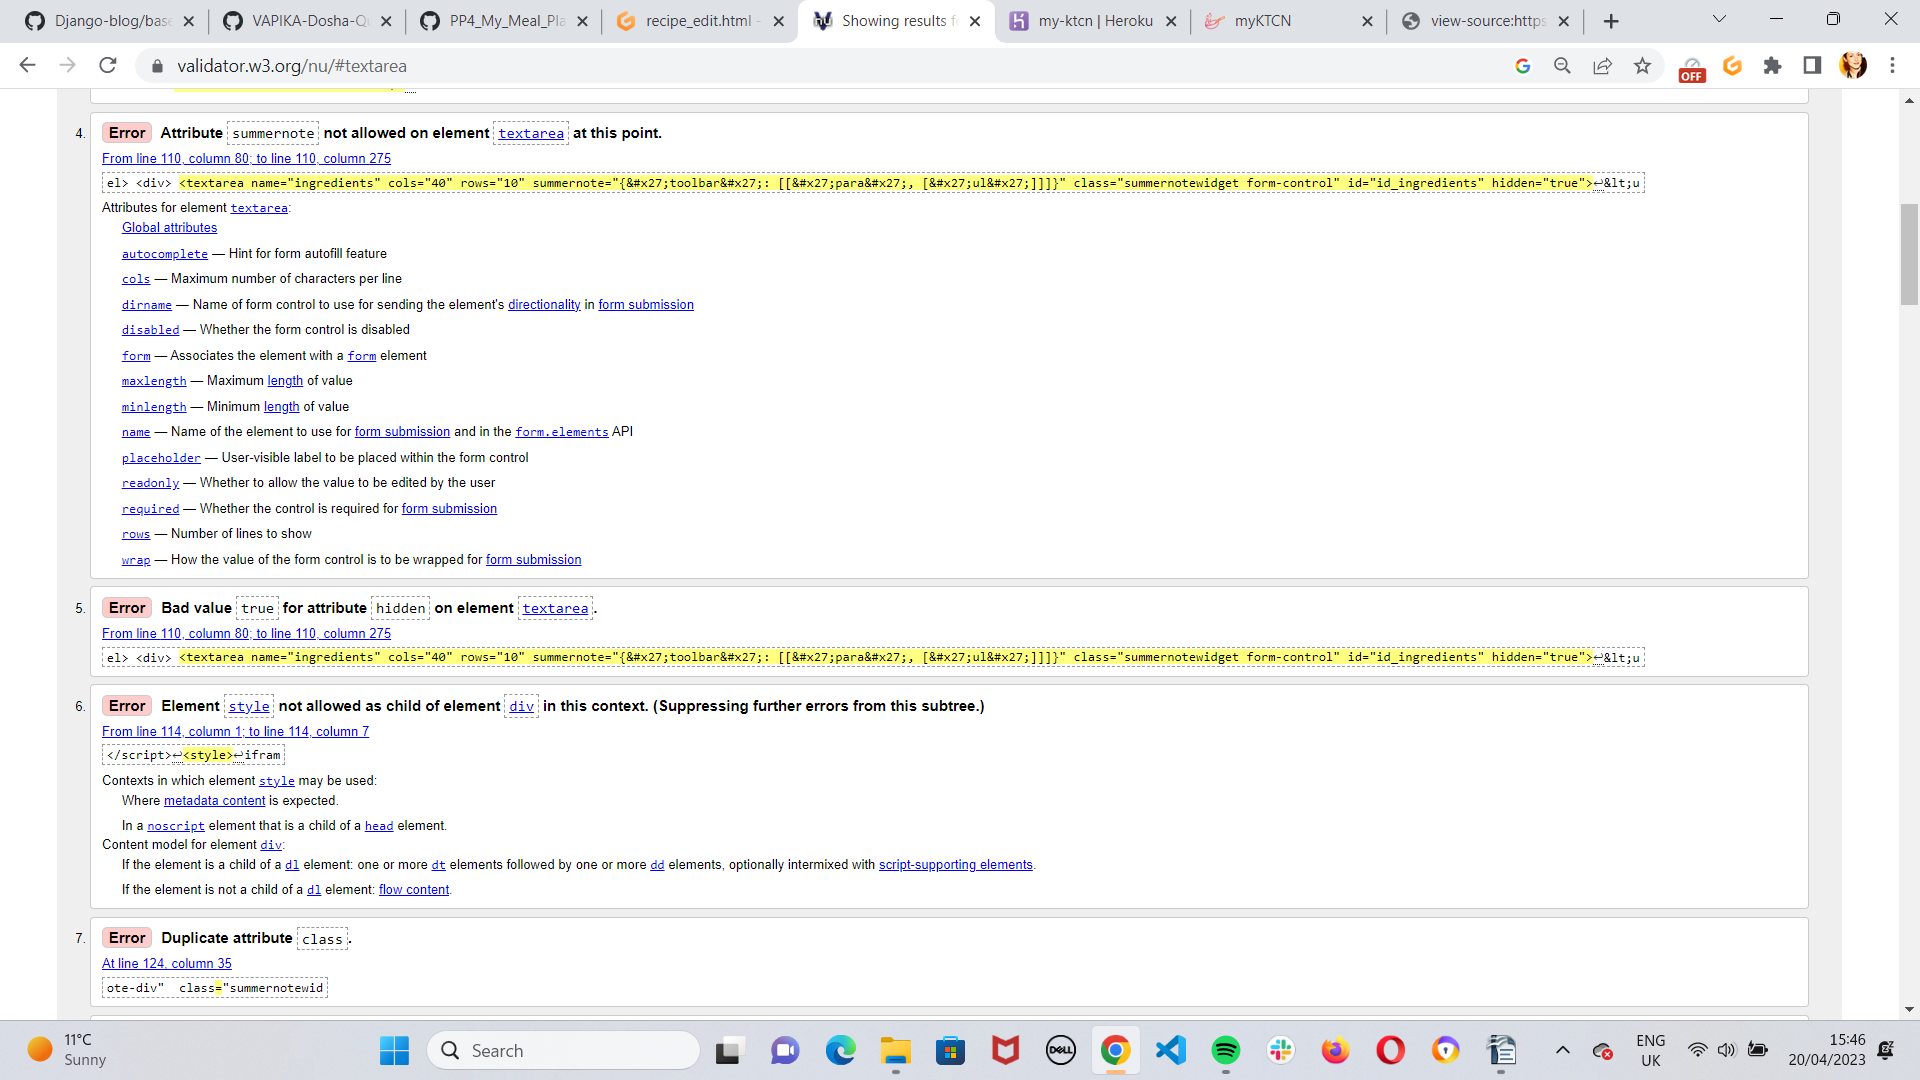
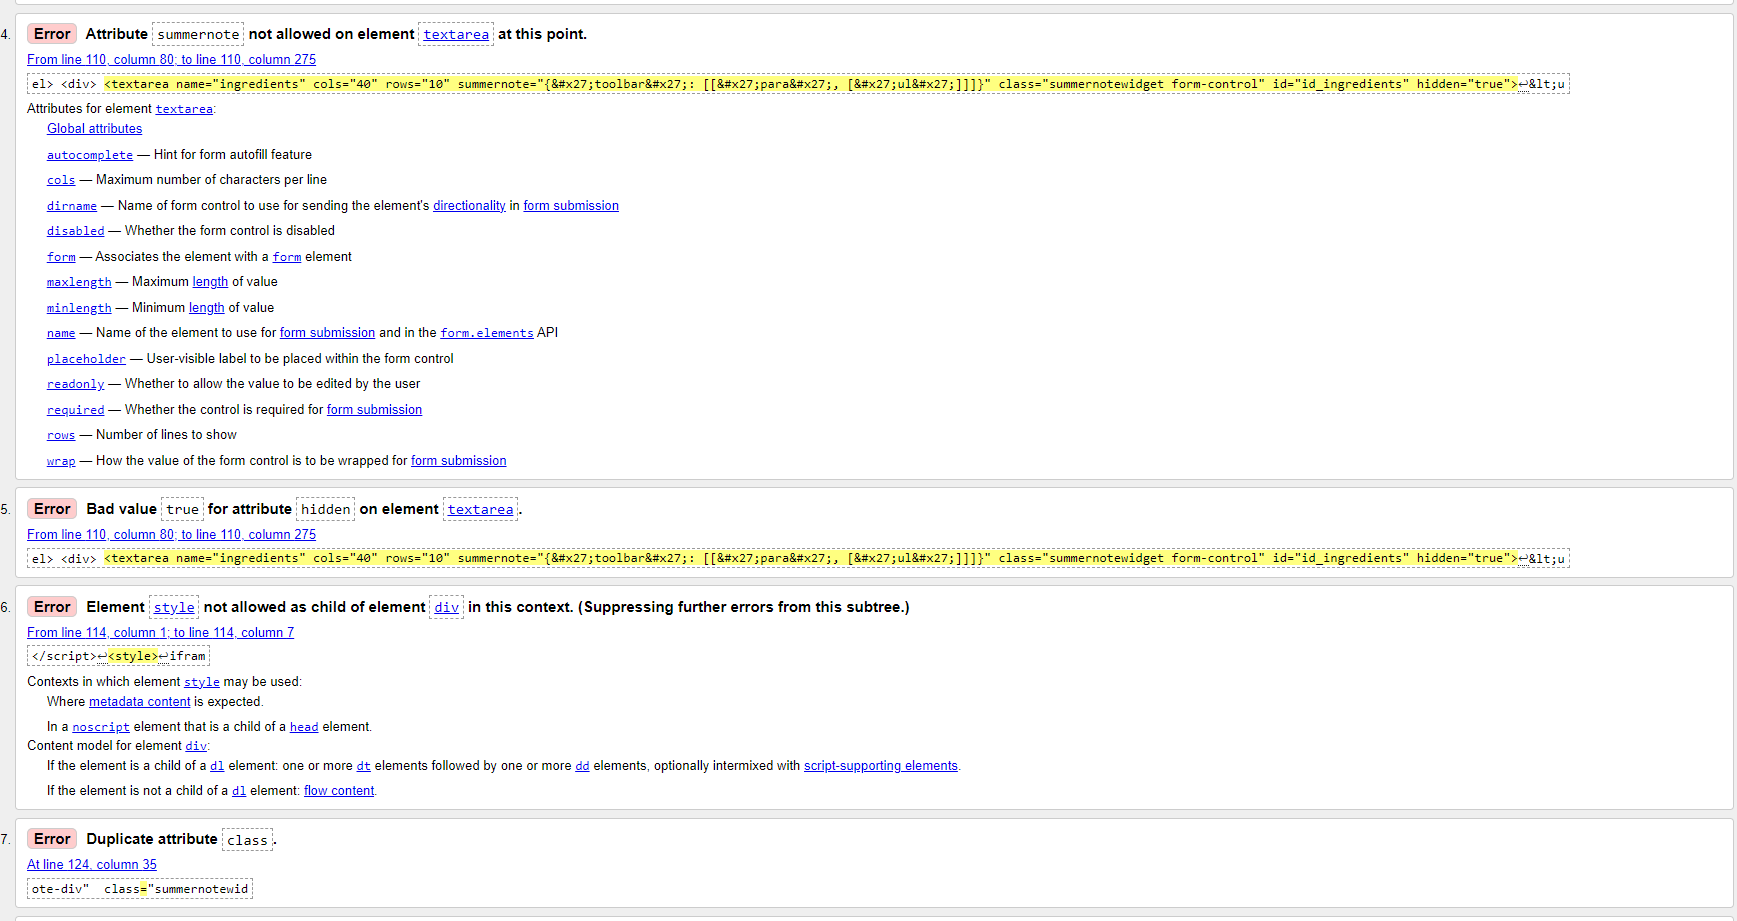
Add html code validation to TESTING file

Changed region(s): [[0.0, 0.0, 1.0, 1.0], [0.2798, 0.3344, 0.3109, 0.3648]]

diff --git a/TESTING.md b/TESTING.md
@@ -29,3 +29,30 @@
 [⬅ Back to the README.md file](README.md)
 
 - - -
+## 1) MANUAL TESTING
+
+- - -
+
+## 2) CODE VALIDATION
+### W3C HTML VALIDATION
+
+All html pages have been run through the [W3C HTML Validator](https://validator.w3.org/) and the below results were returned.
+
+| HTML page     | Errors        | Warnings      | See results  |
+| ------------- | ------------- |---------------|--------------|
+| base.html     | None          | None          | <details><summary>base results</summary> ![base.html results](docs/TESTING-images/html-validation/base.html-validated.png) </details>|
+| index.html    | None          | None          |<details><summary>index results</summary> ![index.html results](docs/TESTING-images/html-validation/index.html-validated.png) </details>|
+| browse_recipes.html    | None          | None          |<details><summary>browse recipes results</summary> ![browse_recipes.html results](docs/TESTING-images/html-validation/browse-recipes.html-validated.png) </details>|
+| cookbook.html    | None          | None          |<details><summary>cookbook results</summary> ![cookbook.html results](docs/TESTING-images/html-validation/cookbook.html-validated.png) </details>|
+| recipe_create.html    | **Yes**         | None          |<details><summary>Add recipe results</summary> ![recipe_create.html results](docs/TESTING-images/html-validation/recipe_create.html-summernoteerrors.png) </details>|
+| recipe_edit.html    | **Yes**         | None          |<details><summary>Edit recipe results</summary> ![recipe_edit.html results](docs/TESTING-images/html-validation/recipe-edit.html-summernoteerrors.png) </details>|
+| recipe_confirm_delete.html    | None          | None          |<details><summary>Delete recipe results</summary> ![recipe_confirm_delete.html results](docs/TESTING-images/html-validation/recipe-confirm-delete.html-vaidated.png) </details>|
+| recipe_details.html    | None          | None          |<details><summary>recipe details results</summary> ![recipe_details.html results](docs/TESTING-images/html-validation/recipe_details.html-validated.png) </details>|
+| drafts.html    | None          | None          |<details><summary>drafts results</summary> ![drafts.html results](docs/TESTING-images/html-validation/drafts.html-validated.png) </details>|
+| 404.html    | None          | None          |<details><summary>404 page results</summary> ![404.html results](docs/TESTING-images/html-validation/404.html-validated.png) </details>|
+| login.html    | None          | None          |<details><summary>login results</summary> ![login.html results](docs/TESTING-images/html-validation/login.html-validated.png) </details>|
+| logout.html    | None          | None          |<details><summary>logout results</summary> ![logout.html results](docs/TESTING-images/html-validation/logout.html-validated.png) </details>|
+| signup.html    | None          | None          |<details><summary>signup results</summary> ![signup.html results](docs/TESTING-images/html-validation/signup.html-validated.png) </details>|
+
+As indicated in the table, there are two pages that return validation errors: __recipe_create.html__ and __recipe_edit.html__. These errors come from the installed Summernote library, that runs on the ingredients and method input fields in the recipe form. These errors stay __unresolved/cannot be fixed__ since they come from an external source.
+- - - 
